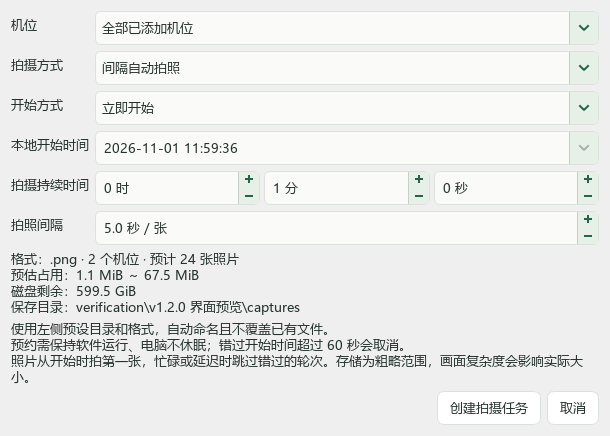
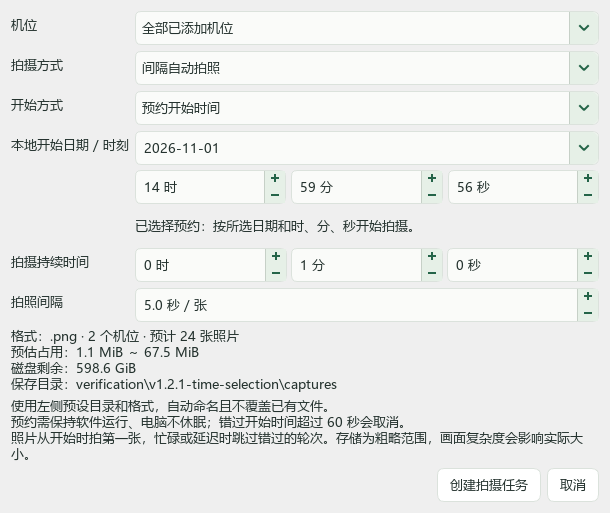
Fix scheduled photo date and clock selection

diff --git a/tests/test_timer_time_selection.py b/tests/test_timer_time_selection.py
@@ -1,0 +1,105 @@
+"""Exercise the date and clock inputs users click in scheduled photography."""
+import time
+
+import cv2
+import numpy as np
+from PySide6.QtCore import QDateTime, Qt, QPoint
+from PySide6.QtTest import QTest
+
+from multicam.timer_dialog import TimerDialog
+from test_timers_zoom import simulated
+from test_saving import close_window
+from test_capture import until
+
+
+def test_photo_date_and_clock_editable_without_unlocking_mode_and_preserved(tmp_path):
+    app, window = simulated(tmp_path)
+    dialog = TimerDialog(list(window.sessions.values()), None, window.output_dir, window.media_formats, window)
+    try:
+        dialog.kind.setCurrentIndex(1)
+        dialog.show()
+        app.processEvents()
+        assert dialog.start_mode.currentIndex() == 0
+        assert dialog.start_at.isEnabled()
+        for box in dialog.start_at.parts:
+            assert box.isEnabled() and not box.isReadOnly()
+        tomorrow = QDateTime.currentDateTime().addDays(1)
+        dialog.start_at.setDateTime(tomorrow)
+        dialog.start_mode.setCurrentIndex(0)
+        for box, number in zip(dialog.start_at.parts, (18, 32, 10)):
+            box.setFocus()
+            QTest.keyClick(box, Qt.Key_A, Qt.ControlModifier)
+            QTest.keyClicks(box, str(number))
+            QTest.keyClick(box, Qt.Key_Tab)
+            assert box.value() == number
+        assert dialog.start_mode.currentIndex() == 1
+        assert dialog.start_at.date.date() == tomorrow.date()
+        preserved = dialog.start_at.dateTime()
+        dialog.kind.setCurrentIndex(0)
+        dialog.kind.setCurrentIndex(1)
+        assert dialog.start_at.dateTime() == preserved
+        calendar = dialog.start_at.date
+        QTest.mouseClick(calendar, Qt.LeftButton, pos=QPoint(calendar.width() - 14, calendar.height() // 2))
+        until(app, lambda: calendar.calendarWidget().isVisible())
+        QTest.keyClick(calendar.calendarWidget(), Qt.Key_Escape)
+        expected = dialog.start_at.dateTime().toMSecsSinceEpoch() / 1000
+        dialog.accept()
+        assert dialog.plan and dialog.plan['starts_at'] == expected
+        assert dialog.start_at.dateTime().toString('HH:mm:ss') == '18:32:10'
+    finally:
+        dialog.close()
+        close_window(app, window)
+
+
+def test_immediate_mode_ignores_picked_date_and_duration_interval_buttons_work(tmp_path):
+    app, window = simulated(tmp_path)
+    dialog = TimerDialog(list(window.sessions.values()), None, window.output_dir, window.media_formats, window)
+    try:
+        dialog.show()
+        dialog.kind.setCurrentIndex(1)
+        dialog.start_at.setDateTime(QDateTime.currentDateTime().addDays(2))
+        dialog.start_mode.setCurrentIndex(0)
+        assert dialog.start_at.isEnabled()
+        dialog.duration.setValue(10)
+        dialog.interval.setValue(2)
+        app.processEvents()
+        box = dialog.duration.parts[-1]
+        QTest.mouseClick(box, Qt.LeftButton, pos=QPoint(box.width() - 10, box.height() // 4))
+        assert dialog.duration.value() == 11
+        dialog.interval.setFocus()
+        QTest.keyClick(dialog.interval, Qt.Key_A, Qt.ControlModifier)
+        QTest.keyClicks(dialog.interval, '1.5')
+        QTest.keyClick(dialog.interval, Qt.Key_Tab)
+        assert dialog.interval.value() == 1.5
+        assert dialog.start_mode.currentIndex() == 0
+        before = time.time()
+        dialog.accept()
+        assert before <= dialog.plan['starts_at'] <= time.time()
+        assert dialog.plan['duration'] == 11 and dialog.plan['interval'] == 1.5
+    finally:
+        dialog.close()
+        close_window(app, window)
+
+
+def test_selected_future_time_actually_delays_photos_then_saves(tmp_path):
+    app, window = simulated(tmp_path)
+    dialog = TimerDialog(list(window.sessions.values()), None, window.output_dir, window.media_formats, window)
+    try:
+        dialog.kind.setCurrentIndex(1)
+        dialog.start_at.setDateTime(QDateTime.currentDateTime().addSecs(3))
+        dialog.duration.setValue(1)
+        dialog.interval.setValue(.4)
+        dialog.accept()
+        assert dialog.plan and dialog.start_mode.currentIndex() == 1
+        window.create_capture_plan(**dialog.plan)
+        app.processEvents()
+        assert not list(window.output_dir.glob('*.png'))
+        assert all(s.schedule for s in window.sessions.values())
+        until(app, lambda: len(list(window.output_dir.glob('*.png'))) >= 4, timeout=8)
+        until(app, lambda: not any(s.schedule or s.photo_plan for s in window.sessions.values()))
+        for path in window.output_dir.glob('*.png'):
+            image = cv2.imdecode(np.fromfile(str(path), np.uint8), 1)
+            assert image is not None and image.shape[:2] == (240, 320)
+    finally:
+        dialog.close()
+        close_window(app, window)

diff --git a/multicam/widgets.py b/multicam/widgets.py
@@ -1,7 +1,7 @@
 """Visible selection and stepping controls, including in styled Windows builds."""
-from PySide6.QtCore import QPoint, Qt
+from PySide6.QtCore import QPoint, Qt, QDateTime, QTime, Signal
 from PySide6.QtGui import QColor, QPainter, QPen
-from PySide6.QtWidgets import QComboBox, QSpinBox, QDoubleSpinBox, QDateTimeEdit, QWidget, QHBoxLayout, QSizePolicy
+from PySide6.QtWidgets import QComboBox, QSpinBox, QDoubleSpinBox, QDateTimeEdit, QDateEdit, QWidget, QHBoxLayout, QVBoxLayout, QSizePolicy
 
 
 def selection_arrow(widget):
@@ -32,6 +32,12 @@ class SelectionDateTimeEdit(QDateTimeEdit):
         selection_arrow(self)
 
 
+class SelectionDateEdit(QDateEdit):
+    def paintEvent(self, event):
+        super().paintEvent(event)
+        selection_arrow(self)
+
+
 class StepButtons:
     def paintEvent(self, event):
         super().paintEvent(event)
@@ -50,6 +56,58 @@ class NumberBox(StepButtons, QSpinBox):
 
 class DecimalBox(StepButtons, QDoubleSpinBox):
     pass
+
+
+class DateTimePicker(QWidget):
+    """A calendar and explicit clock fields, rather than a date-only popup."""
+    dateTimeChanged = Signal(QDateTime)
+
+    def __init__(self, value, parent=None):
+        super().__init__(parent)
+        layout = QVBoxLayout(self)
+        layout.setContentsMargins(0, 0, 0, 0)
+        layout.setSpacing(5)
+        self.date = SelectionDateEdit(value.date())
+        self.date.setCalendarPopup(True)
+        self.date.setDisplayFormat('yyyy-MM-dd')
+        self.date.setAccessibleName('预约拍照或录像的开始日期')
+        layout.addWidget(self.date)
+        row = QHBoxLayout()
+        self.parts = []
+        for title, maximum in [('时', 23), ('分', 59), ('秒', 59)]:
+            box = NumberBox()
+            box.setRange(0, maximum)
+            box.setSuffix(' ' + title)
+            box.setMinimumWidth(70)
+            box.setSizePolicy(QSizePolicy.Ignored, QSizePolicy.Fixed)
+            box.setAccessibleName('预约开始时间（%s）' % title)
+            row.addWidget(box)
+            self.parts.append(box)
+        self.hours, self.minutes, self.seconds = self.parts
+        layout.addLayout(row)
+        self.setDateTime(value)
+        self.date.dateChanged.connect(self.changed)
+        for box in self.parts:
+            box.valueChanged.connect(self.changed)
+
+    def dateTime(self):
+        return QDateTime(self.date.date(), QTime(*(box.value() for box in self.parts)))
+
+    def setDateTime(self, value):
+        # Atomic update: never advertise an intermediate, possibly past time.
+        controls = [self.date] + self.parts
+        blocked = [control.blockSignals(True) for control in controls]
+        try:
+            self.date.setDate(value.date())
+            for box, number in zip(self.parts, (value.time().hour(), value.time().minute(), value.time().second())):
+                box.setValue(number)
+        finally:
+            for control, previous in zip(controls, blocked):
+                control.blockSignals(previous)
+        self.dateTimeChanged.emit(self.dateTime())
+
+    def changed(self, *_):
+        self.dateTimeChanged.emit(self.dateTime())
 
 
 class DurationEdit(QWidget):

diff --git a/multicam/timer_dialog.py b/multicam/timer_dialog.py
@@ -3,7 +3,7 @@ import time
 from PySide6.QtCore import QDateTime
 from PySide6.QtWidgets import (QDialog, QDialogButtonBox, QFormLayout, QLabel,
                               QVBoxLayout, QMessageBox)
-from .widgets import SelectionComboBox, SelectionDateTimeEdit, DurationEdit, DecimalBox
+from .widgets import SelectionComboBox, DateTimePicker, DurationEdit, DecimalBox
 from .storage import estimate_storage, format_bytes, free_space
 
 
@@ -30,11 +30,11 @@ class TimerDialog(QDialog):
         self.start_mode = SelectionComboBox()
         self.start_mode.addItems(['立即开始', '预约开始时间'])
         form.addRow('开始方式', self.start_mode)
-        self.start_at = SelectionDateTimeEdit(QDateTime.currentDateTime().addSecs(60))
-        self.start_at.setCalendarPopup(True)
-        self.start_at.setDisplayFormat('yyyy-MM-dd HH:mm:ss')
-        self.start_at.setEnabled(False)
-        form.addRow('本地开始时间', self.start_at)
+        self.start_at = DateTimePicker(QDateTime.currentDateTime().addSecs(60))
+        form.addRow('本地开始日期 / 时刻', self.start_at)
+        self.start_hint = QLabel()
+        self.start_hint.setWordWrap(True)
+        form.addRow('', self.start_hint)
         self.duration = DurationEdit(60)
         form.addRow('拍摄持续时间', self.duration)
         self.interval = DecimalBox()
@@ -62,6 +62,7 @@ class TimerDialog(QDialog):
         layout.addWidget(buttons)
         for combo in (self.scope, self.kind, self.start_mode):
             combo.currentIndexChanged.connect(self.update_estimate)
+        self.start_at.dateTimeChanged.connect(self.schedule_time_edited)
         for box in self.duration.parts:
             box.valueChanged.connect(self.update_estimate)
         self.interval.valueChanged.connect(self.update_estimate)
@@ -71,10 +72,15 @@ class TimerDialog(QDialog):
         key = self.scope.currentData()
         return [s for s in self.sessions if key is None or key == s.key]
 
+    def schedule_time_edited(self, *_):
+        self.start_mode.setCurrentIndex(1)
+        self.update_estimate()
+
     def update_estimate(self, *_):
         photo = self.kind.currentData() == 'photo'
         self.interval.setEnabled(photo)
-        self.start_at.setEnabled(self.start_mode.currentIndex() == 1)
+        self.start_hint.setText('已选择预约：按所选日期和时、分、秒开始拍摄。' if self.start_mode.currentIndex() == 1
+                                else '当前为立即开始；修改上方日期或时、分、秒，将自动切换为预约。')
         suffix = self.formats['photo' if photo else 'video']
         result = estimate_storage([s.config for s in self.chosen()], self.duration.value(), suffix,
                                   self.interval.value() if photo else None)

diff --git a/multicam/smoke.py b/multicam/smoke.py
@@ -8,7 +8,7 @@ import time
 import cv2
 import numpy
 import PySide6
-from PySide6.QtCore import QTimer
+from PySide6.QtCore import QTimer, QDateTime, QTime
 from PySide6.QtWidgets import QApplication, QFileDialog, QMessageBox
 
 from . import __version__
@@ -103,6 +103,14 @@ def schedule_smoke_test(window, data, formats=False, channels=2, timers=False):
             dialog.kind.setCurrentIndex(1)
             dialog.show()
             QApplication.processEvents()
+            editable = dialog.start_at.isEnabled() and all(box.isEnabled() for box in dialog.start_at.parts)
+            selected_time = QDateTime.currentDateTime().addDays(1)
+            selected_time.setTime(QTime(18, 32, 10))
+            dialog.start_at.setDateTime(selected_time)
+            dialog.start_at.hours.setValue(19)
+            actual_time = dialog.start_at.dateTime()
+            evidence['photo_start_time_selectable'] = (editable and dialog.start_mode.currentIndex() == 1
+                and actual_time.date() == selected_time.date() and actual_time.time() == QTime(19, 32, 10))
             evidence['storage_estimate_visible'] = '预估占用' in dialog.estimate.text() and '磁盘剩余' in dialog.estimate.text()
             dialog.grab().save(str(data / 'timer-preview.png'))
             dialog.close()

diff --git a/scripts/verify-package.py b/scripts/verify-package.py
@@ -67,6 +67,7 @@ def main():
     videos = [path for path in files if path.suffix in video_suffixes]
     if args.timers:
         assert runtime.get('timed_capture') and runtime.get('demo_zoom_disabled') and runtime.get('storage_estimate_visible')
+        assert runtime.get('photo_start_time_selectable'), 'Packaged photo date/time selectors failed'
         assert args.channels * 2 <= len(photos) <= args.channels * 4
     else:
         assert len(photos) == (5 if args.formats else args.channels), 'Photo output was not completed'

diff --git a/multicam/__init__.py b/multicam/__init__.py
@@ -1,2 +1,2 @@
 """Camera Desk — local multi-camera capture."""
-__version__ = "1.2.0"
+__version__ = "1.2.1"

diff --git a/README.md b/README.md
@@ -41,6 +41,7 @@
 点击左侧“定时拍摄 / 存储预估”，或某个机位上的“定时”，选择全部或指定机位：
 
 1. 拍摄方式可选录像、间隔自动拍照；开始方式可选立即开始、预约本地日期和时间。
+   预约时间使用独立日历和时、分、秒输入框，支持直接输入或加减；修改日期或时刻会自动切换到预约，切回“立即开始”会忽略预约值。拍摄时长与拍照间隔可分别设置。
 2. 用户设置持续时间；间隔拍照还可设置每张照片的间隔（至少 0.1 秒）。窗口显示当前格式下的占用参考范围、预计照片数量、磁盘剩余空间和保存目录。
 3. 创建任务后无需守候保存窗口。录像达到时长自动保存并保留预览；间隔拍照从开始时拍第一张，期间仍可独立录像和手动拍照。
 
@@ -133,7 +134,7 @@ powershell -ExecutionPolicy Bypass -File .\build.ps1
 
 ## GitHub 开源与发行
 
-把项目根目录上传为 GitHub 仓库即可。普通提交和 PR 会运行 Windows 测试；推送与当前版本号一致的 `v1.2.0` 等标签后，发行工作流会测试、构建两种可执行版本、打包应用及第三方源码、计算校验值，并创建草稿发行版供维护者检查。
+把项目根目录上传为 GitHub 仓库即可。普通提交和 PR 会运行 Windows 测试；推送与当前版本号一致的 `v1.2.1` 等标签后，发行工作流会测试、构建两种可执行版本、打包应用及第三方源码、计算校验值，并创建草稿发行版供维护者检查。
 
 完整步骤见 [发行指南](docs/RELEASING.md)，参与开发见 [CONTRIBUTING.md](CONTRIBUTING.md)。源码与便携包中不包含拍摄内容、个人设置或开发环境。
 

diff --git a/docs/RELEASE_NOTES_v1.2.1.md b/docs/RELEASE_NOTES_v1.2.1.md
@@ -1,0 +1,12 @@
+# Camera Desk v1.2.1
+
+改进定时拍照的日期和时刻选择，保留 v1.2.0 的定时录像、间隔拍照、硬件变焦和存储预估。
+
+- 预约日期与时刻分开显示：日历选择日期，独立的时、分、秒可直接输入或点击加减。
+- 日期和时刻不再因为默认“立即开始”而置灰；编辑任一项会自动选择预约模式，并给出说明。
+- 切换拍摄方式保留已选时刻；明确选择“立即开始”时使用当前时间，不会误用预约日期。
+- 新增真实键盘输入、日历和加减点击、按选择时间执行拍照，以及打包 EXE 时间选择检查。
+
+入口：左侧“定时拍摄 / 存储预估”或机位“定时”→ 选择“间隔自动拍照”→ 选择日期和时、分、秒 → 设置持续时间、拍照间隔 → 创建任务。
+
+提供 Windows 10/11 x64 单文件 EXE、便携版、MIT 应用源码、第三方对应源码和 SHA-256 校验值。保留旧发行版与完整 CHANGELOG；硬件变焦与实际拍摄性能仍取决于设备，存储为参考估算。

diff --git a/docs/VALIDATION.md b/docs/VALIDATION.md
@@ -1,5 +1,11 @@
 # 验证记录
 
+## v1.2.1（2026-11-01）
+
+- 36 项本地测试通过。新增实际键盘输入时、分、秒、点击日历、时长加减与间隔输入的检查，确认选择不会被拍摄方式切换覆盖。
+- 检查直接编辑日期时刻会选择预约，主动切回立即开始则忽略预约值；按选定的未来时间确实延后拍照并生成可读图片。
+- 打包检查新增预约拍照日期／时刻可编辑与选择结果的断言，沿用两种 EXE 的 8 路定时和间隔拍照场景。
+
 ## v1.2.0（2026-11-01）
 
 - 33 项本地自动化测试通过，保留此前 25 项录像、拍照、格式、保存保护和分辨率检查。

diff --git a/CHANGELOG.md b/CHANGELOG.md
@@ -1,5 +1,11 @@
 # 更新记录
 
+## [1.2.1] - 2026-11-01
+
+- 修复预约拍照时间选择不直观的问题：将合并日期时刻输入改为独立日历与时、分、秒控件。
+- 时间控件保持可编辑；直接修改日期或时刻会自动切换到预约模式，切回立即开始时明确忽略预约值。
+- 保留切换拍摄方式时已选择的日期时刻，新增实际键盘输入、加减、日历点击和按所选时间拍照的回归检查，并验证打包后的时间选择。
+
 ## [1.2.0] - 2026-11-01
 
 - 新增立即／预约开始的定时录像与间隔自动拍照，支持全部或指定机位、用户时长及间隔、独立取消任务。

diff --git a/docs/RELEASING.md b/docs/RELEASING.md
@@ -29,7 +29,7 @@ powershell -ExecutionPolicy Bypass -File .\scripts\fetch-third-party-sources.ps1
 
 1. 核对 `multicam/__init__.py` 的版本、`CHANGELOG.md` 及 `docs/RELEASE_NOTES_v版本.md`。
 2. 在 GitHub 建立仓库并推送源码。
-3. 创建并推送对应标签，例如当前版本的 `v1.2.0`。
+3. 创建并推送对应标签，例如当前版本的 `v1.2.1`。
 4. `Build Windows release` 会测试、打包，上传构建产物，并创建草稿发行版。
 5. 检查草稿中的便携包、应用源码、第三方源码、校验值和说明；在第二台 Windows 电脑测试后，再在 GitHub 点击发布。
 
